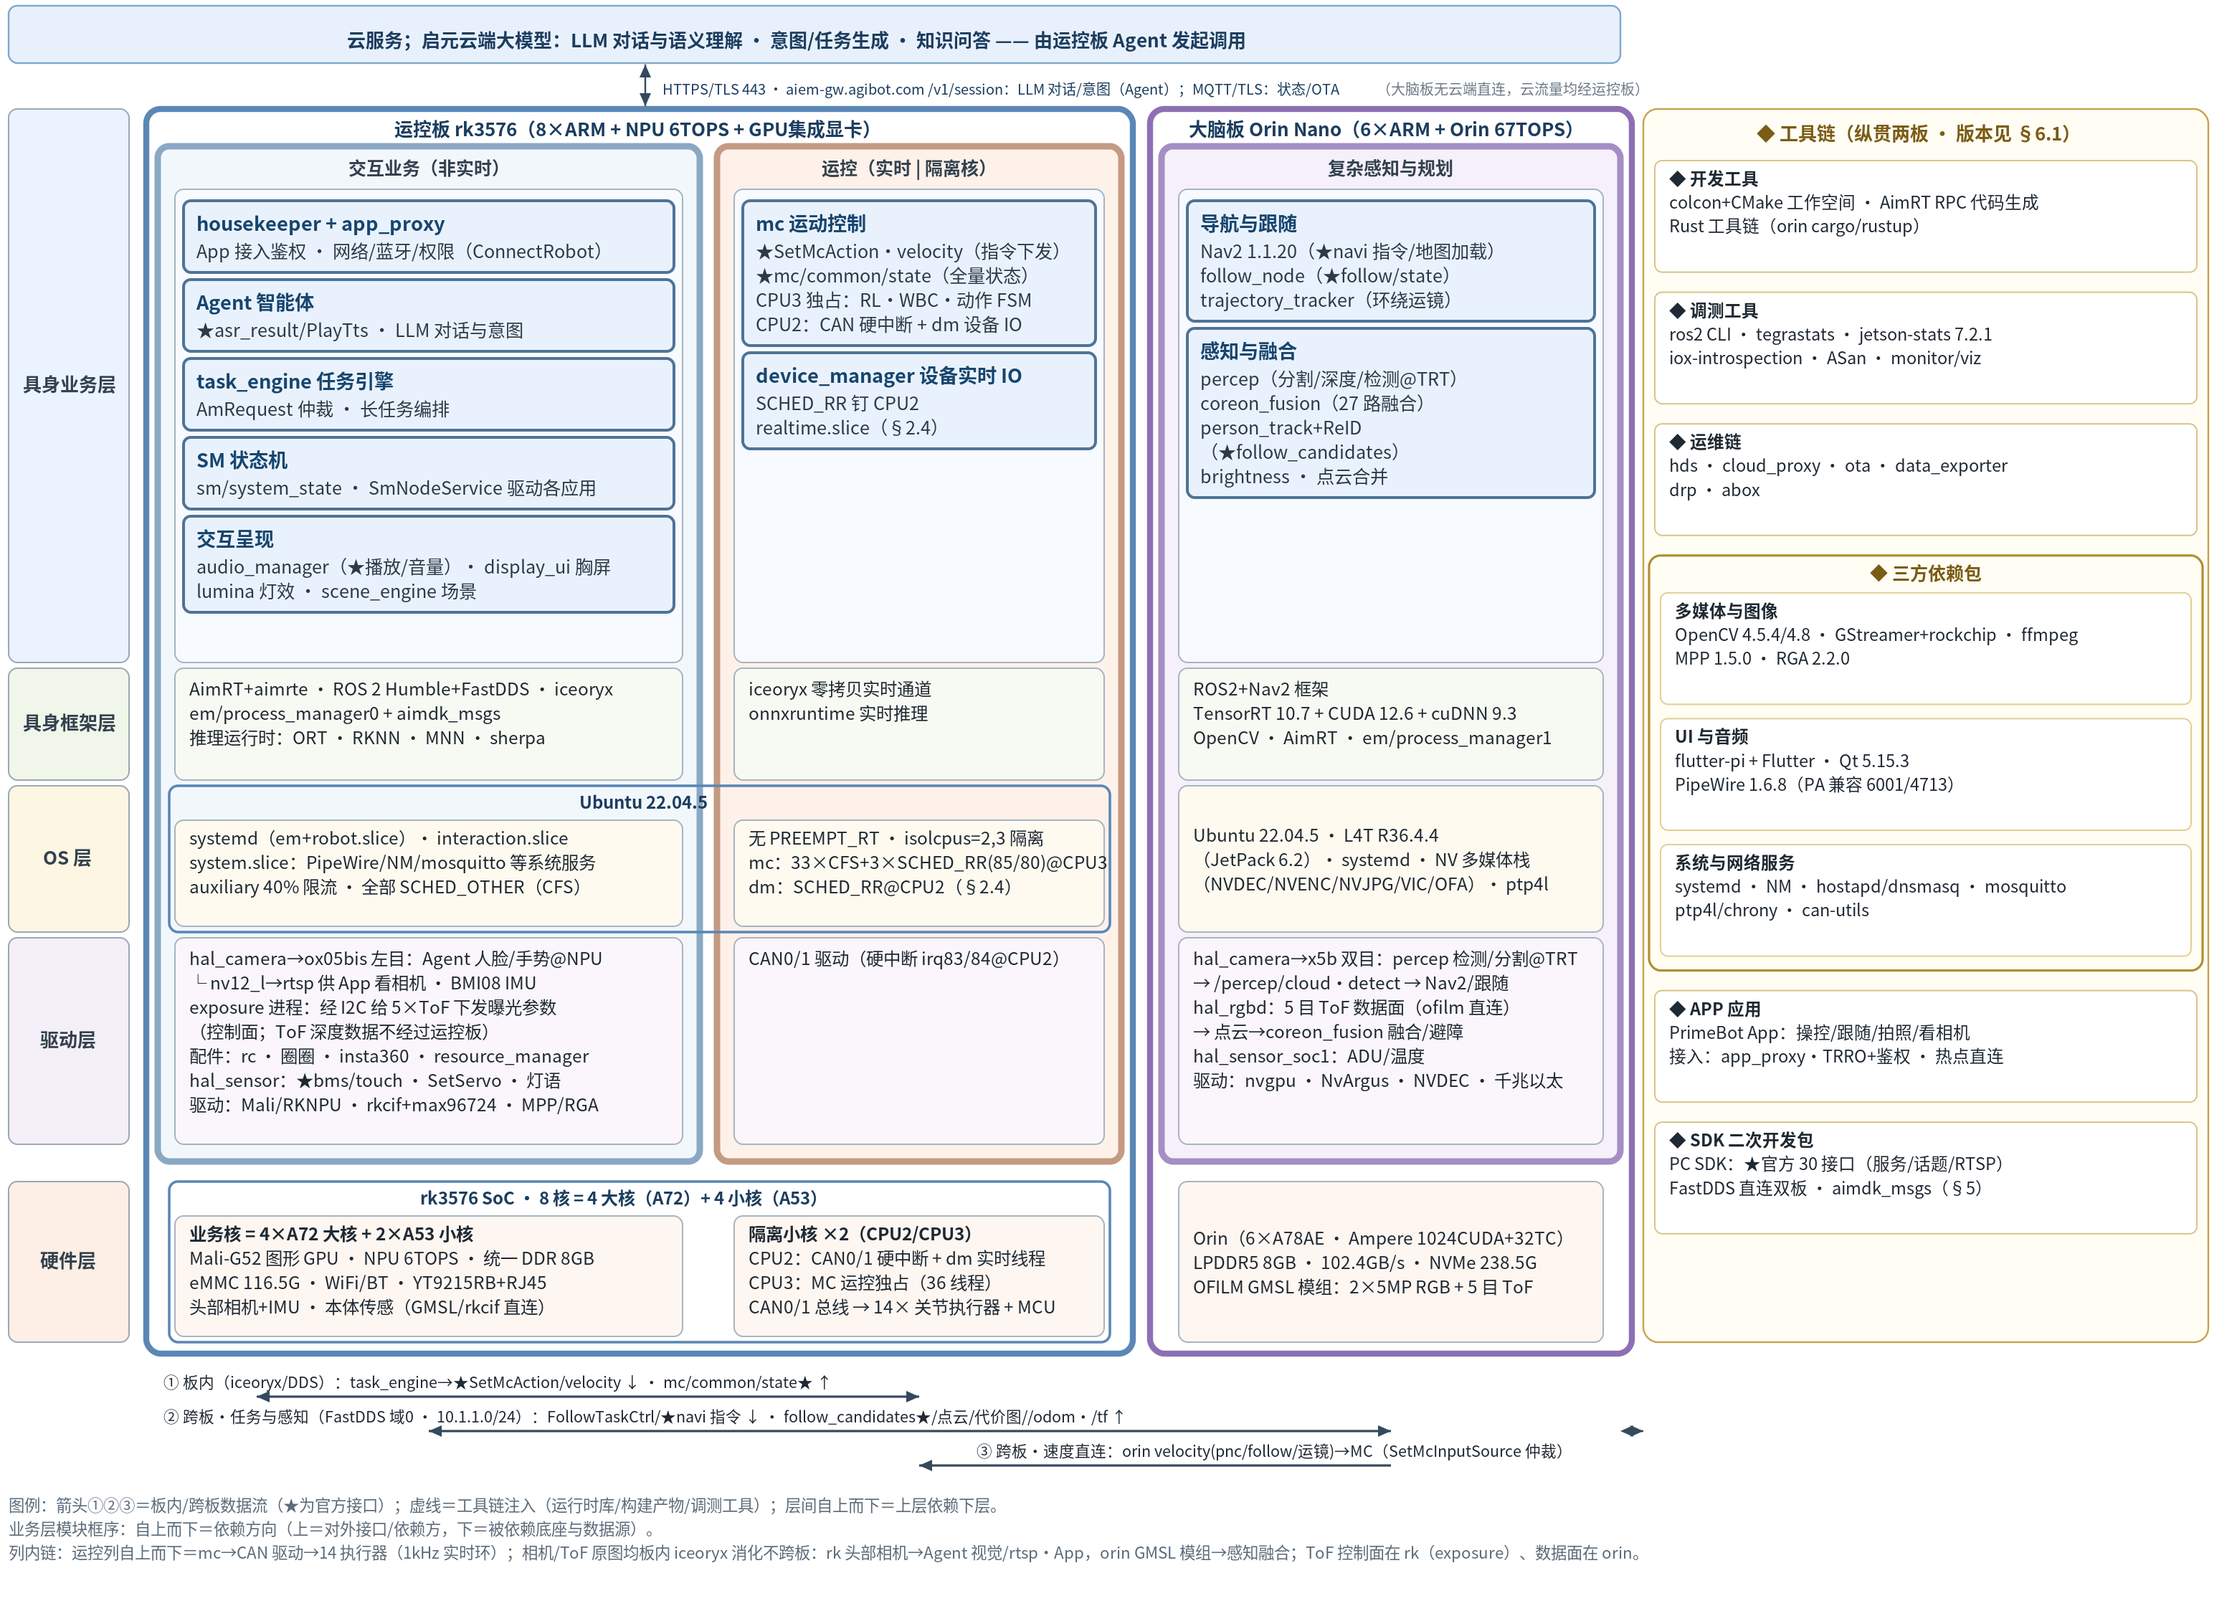
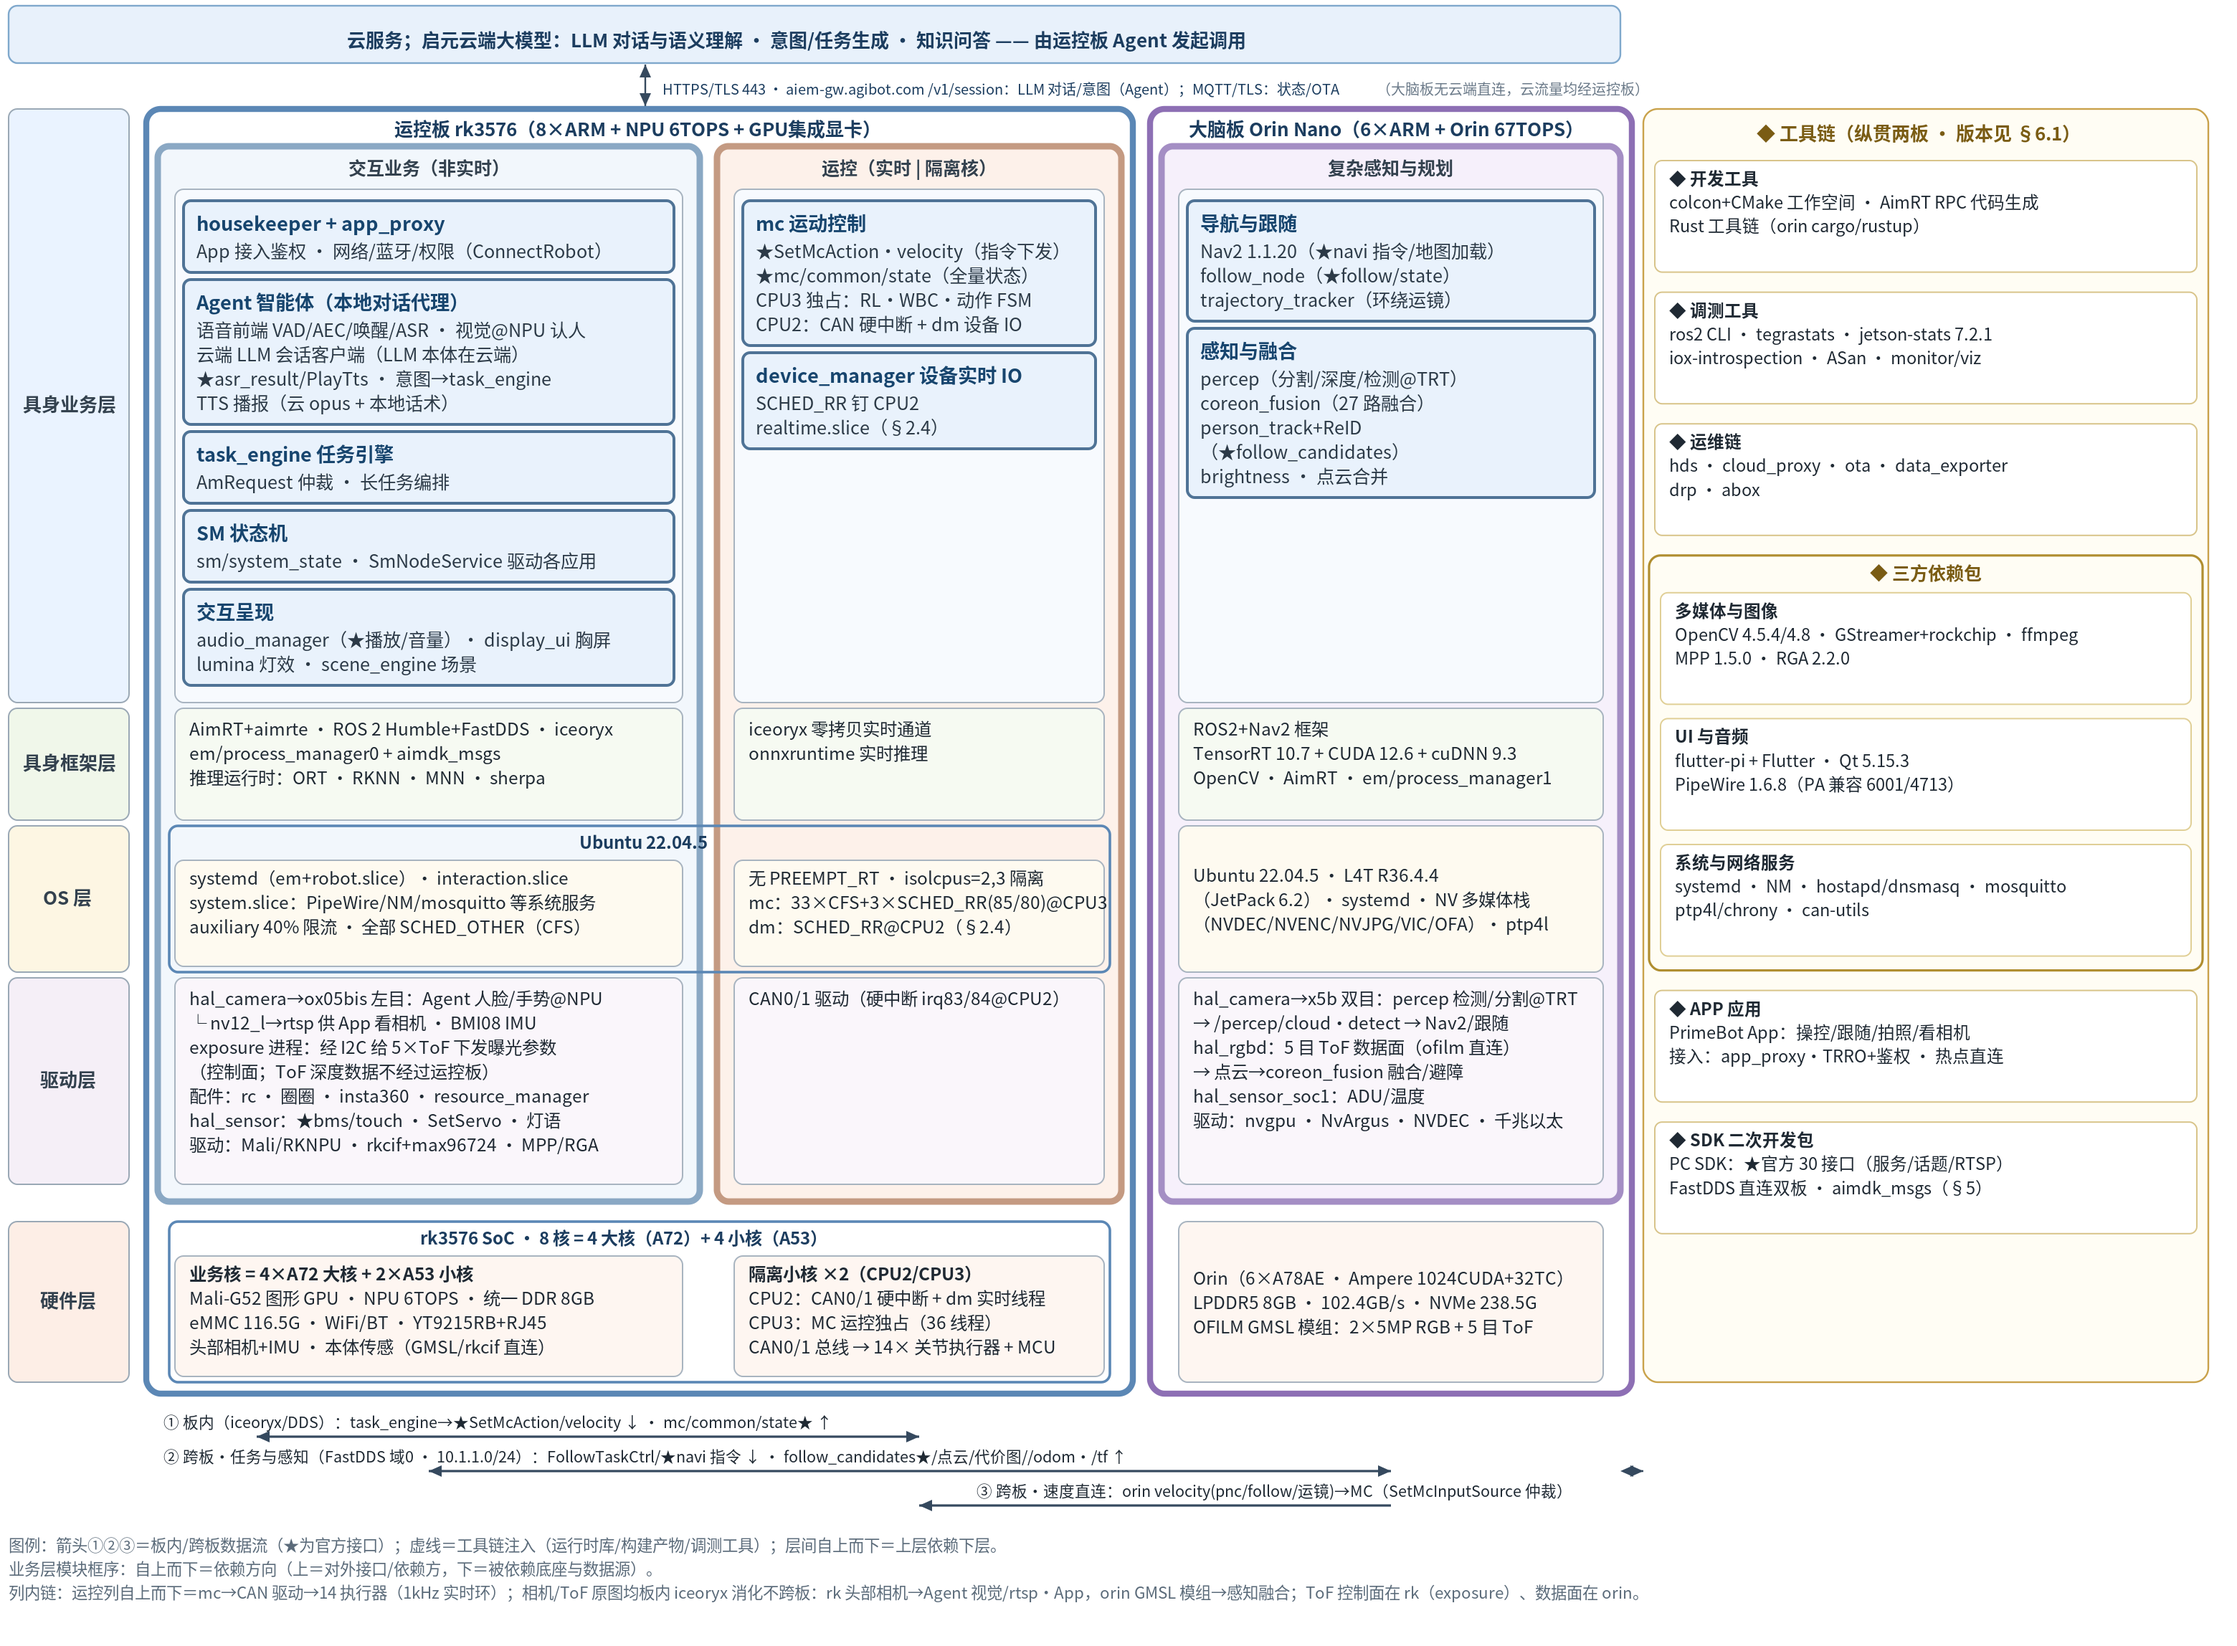
图 7-1：Agent 智能体模块按梳理内容细化（本地对话代理，LLM 本体在云端）
- 原「★asr_result/PlayTts · LLM 对话与意图」易误读为 Agent 含 LLM →
  展开为四行：语音前端 VAD/AEC/唤醒/ASR · 视觉@NPU 认人 / 云端 LLM
  会话客户端（LLM 本体在云端）/ ★asr_result/PlayTts · 意图→task_engine /
  TTS 播报（云 opus + 本地话术，两级响应）
- 业务行高 344→358；Chrome 121/121 文本全渲染；?v=20261102a

diff --git a/docs/primebot/figures/gen_fig_7_1.py b/docs/primebot/figures/gen_fig_7_1.py
@@ -62,7 +62,7 @@ C3_X, C3_W = 810, 320                 # orin（右移 14：与运控板框留 6p
 TC_X, TC_W = 1146, 394                # 工具链（纵贯）
 PAD = 8
 BOARD_Y0 = 76                                        # 板框顶（含框内标题条带，标题被框包住）
-ROW_H = [330, 78, 102, 144]           # 业务/框架/OS(含外包框标题带)/驱动(含传感直连内容)（部分框内四层）
+ROW_H = [358, 78, 102, 144]           # 业务/框架/OS(含外包框标题带)/驱动(含传感直连内容)（部分框内四层）
 HW_H = 112                            # 硬件层（板框内、部分框外；rk 侧含外包框标题带）
 EXT_Y, EXT_H = 4, 40                 # 启元云端大模型带（贴顶，与板框留距）
 
@@ -81,7 +81,7 @@ BOARD_BOT = HW_BOT + PAD                              # 776
 BIZ_COLS = [
  [  # rk·交互业务：对外接口与依赖方在上（传感直连内容已并入驱动层格，运维链移入工具链列，板基座不画）
   ('housekeeper + app_proxy', ['App 接入鉴权 · 网络/蓝牙/权限（ConnectRobot）']),
-  ('Agent 智能体', ['★asr_result/PlayTts · LLM 对话与意图']),
+  ('Agent 智能体（本地对话代理）', ['语音前端 VAD/AEC/唤醒/ASR · 视觉@NPU 认人', '云端 LLM 会话客户端（LLM 本体在云端）', '★asr_result/PlayTts · 意图→task_engine', 'TTS 播报（云 opus + 本地话术）']),
   ('task_engine 任务引擎', ['AmRequest 仲裁 · 长任务编排']),
   ('SM 状态机', ['sm/system_state · SmNodeService 驱动各应用']),
   ('交互呈现', ['audio_manager（★播放/音量）· display_ui 胸屏', 'lumina 灯效 · scene_engine 场景']),

diff --git a/docs/primebot/t1-pro-orin-rk-analysis.md b/docs/primebot/t1-pro-orin-rk-analysis.md
@@ -1498,7 +1498,7 @@ sequenceDiagram
 
 **排版口径**：**纵向（列）**按部署域切分为三部分——运控板 rk 的「交互业务（非实时）」与「运控执行（实时）」两列 + 大脑板 orin 的「复杂感知与规划」一列；**横向（行）**自上而下为**具身业务层 → 具身框架层 → OS 层 → 驱动层 → 硬件层**五层（即自底向上：硬件→驱动→OS→框架→业务）；**最右侧为纵贯全部层级的「工具链」大框**。因 mermaid 自动布局无法锁定矩阵式行列顺序，本图由脚本生成 **SVG 矢量图**（`figures/gen_fig_7_1.py` → `figures/fig-7-1-layered-arch.svg`，仓库同时提供 PNG 版 `fig-7-1-layered-arch.png`），行列位置精确可控，并直接画出板内/跨板数据流与工具链注入连线。按 4+1 视图口径，**本图即逻辑视图**：以具身业务层的功能模块（职责+接口★）为主体，其下框架/OS/驱动层与硬件层作为物理承载一并框出（嵌套结构：**板框 ⊃ 部分框 ⊃ 业务/框架/OS/驱动四层；硬件层在板框内、部分框外**）；模块间接口协作另见 §7.4，场景串联见 §6.2。
 
-![图 7-1 逻辑视图（双板纵切 × 五层横切 × 工具链纵贯）](figures/fig-7-1-layered-arch.png?v=20261101a)
+![图 7-1 逻辑视图（双板纵切 × 五层横切 × 工具链纵贯）](figures/fig-7-1-layered-arch.png?v=20261102a)
 
 > **图 7-1 读法**：**板框**（运控板 rk3576 / 大脑板 Orin Nano）⊃ **部分框**（交互业务（非实时）/ 运控（实时｜隔离核）/ 复杂感知与规划，各含具身业务→框架→OS→驱动四层，上层依赖下层）（正文为缩略显示，点击图片可放大至原生分辨率）；**硬件层**在板框内、部分框正下方（**rk 侧两格外包统一框：rk3576 8 核＝4×A72 大核＋4×A53 小核**，内格细分业务核〔4×A72＋2×A53〕与 2×隔离小核 CPU2/CPU3）；**OS 层 rk 两列同属一个 Ubuntu 22.04.5 实例**（外包统一框；两格内容侧重调度——业务格：interaction/system/auxiliary slice + CFS，运控格：isolcpus=2,3 + SCHED_RR 钉核）；**具身业务层内每模块独立成框，框序自上而下=依赖方向（上=对外接口/依赖方，下=被依赖底座与数据源）**；最右列为**工具链**纵贯（**开发工具 → 调测工具 → 运维链 → 三方依赖包**〔多媒体与图像 · UI 与音频 · 系统与网络服务〕**→ APP 应用 → SDK 二次开发包**；**传感直连内容已并入各板驱动层格**——rk 格以 hal_sensor/hal_camera(ox05bis)/exposure 为前，orin 格以 hal_rgbd/hal_camera(x5b) 为前）；**①②③通信线统一画在图底部**。
 > **连线与交互**（图上带编号的箭头）：**① 板内**（rk 业务⇄运控，iceoryx/DDS）——task_engine→★SetMcAction/velocity ↓，mc→★mc/common/state ↑；**② 跨板·任务与感知**（rk 业务⇄orin，内部以太网 10.1.1.0/24 · FastDDS 域 0）——FollowTaskCtrl/★navi 指令 ↓，★follow_candidates/点云/代价图、/odom·/tf ↑（只走结果级数据，相机原图板内消化）；**③ 跨板·速度直连**（orin→MC）——nav2/follow/运镜发布 velocity(pnc/follow)，MC 按 SetMcInputSource 仲裁；**外部接入**——App→app_proxy(TRRO/鉴权)、**云 LLM⇄Agent（HTTPS/TLS 443 · aiem-gw.agibot.com /v1/session：对话/意图，顶部「启元云端大模型」带即此链路，仅连运控板；2026-10-31 实测大脑板零云进程/零外部连接）**、云→cloud_proxy(MQTT/TLS：状态/OTA)、遥控器→rc(蓝牙)、圈圈→connx(BLE+UWB)、Insta360→insta360(WiFi)，全部终结于 rk；PC ★接口面 FastDDS 直连双板；**虚线**=工具链注入。模块级全量接口见 §7.4，连接视角见 §7.2。
